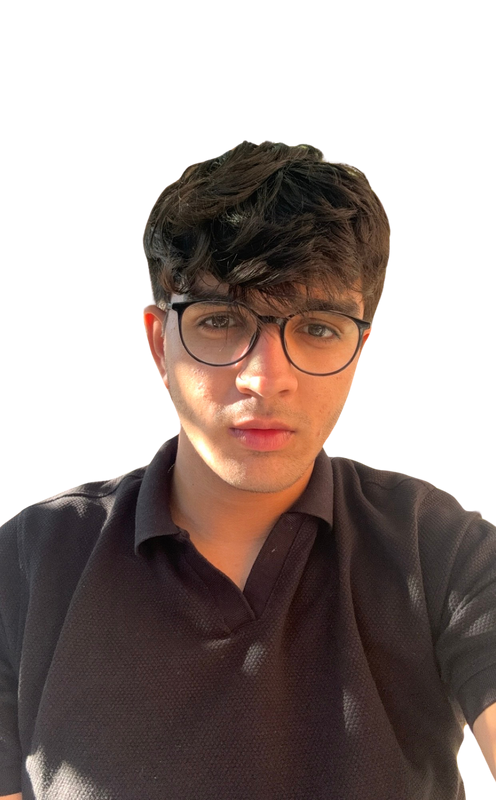
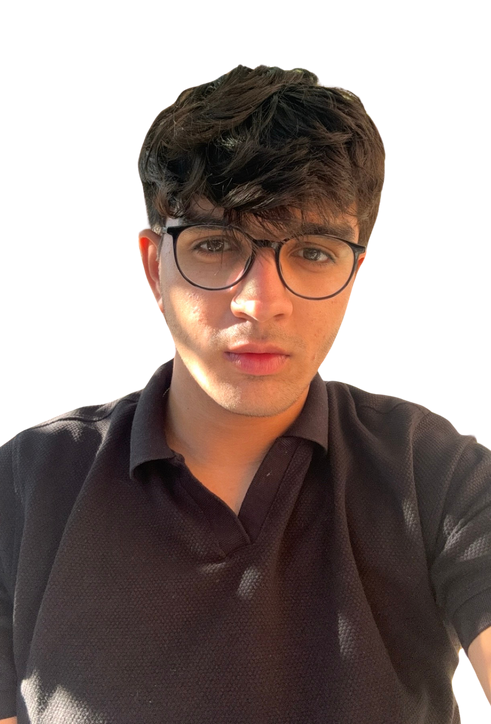
updated kshitij image and fixed sizing

diff --git a/src/app/(home)/about/page.tsx b/src/app/(home)/about/page.tsx
@@ -51,15 +51,15 @@ export default function AboutPage() {
       <Header />
       <main className="container mx-auto px-4 py-16 sm:px-6 lg:px-8">
         {/* Mission Section */}
-        <section className="mb-24">
-          <h1 className="text-4xl font-bold text-gray-900 mb-8 text-center animate-fade-in">Our Mission</h1>
-          <div className="bg-white rounded-2xl shadow-xl p-8 md:p-12 relative overflow-hidden animate-fade-in-up">
-            <div className="absolute top-0 left-0 w-full h-2 bg-blue-600"></div>
-            <h2 className="text-2xl font-semibold text-gray-900 mb-4">Post-Chemo Care, Quick and Personalized.</h2>
-            <p className="text-lg text-gray-700 mb-4">
+        <section className="mb-32">
+          <h1 className="text-5xl font-bold text-gray-900 mb-12 text-center animate-fade-in">Our Mission</h1>
+          <div className="bg-white rounded-3xl shadow-2xl p-10 md:p-16 relative overflow-hidden animate-fade-in-up">
+            <div className="absolute top-0 left-0 w-full h-2 bg-gradient-to-r from-blue-600 to-purple-600"></div>
+            <h2 className="text-3xl font-semibold text-gray-900 mb-6">Post-Chemo Care, Quick and Personalized.</h2>
+            <p className="text-xl text-gray-700 mb-6 leading-relaxed">
               Our cancer care systems demand immediate transformation, as its impact reaches far beyond a single tumor.
             </p>
-            <p className="text-lg text-gray-700">
+            <p className="text-xl text-gray-700 leading-relaxed">
               Hippocampi leads this innovation by prioritizing personalized care, pioneering the first-ever platform
               connecting cancer patients suffering cognitive and mental impairments with readily available healthcare
               providers.
@@ -69,23 +69,30 @@ export default function AboutPage() {
 
         {/* Team Section */}
         <section>
-          <h2 className="text-4xl font-bold text-gray-900 mb-12 text-center animate-fade-in">Our Team</h2>
+          <h2 className="text-5xl font-bold text-gray-900 mb-16 text-center animate-fade-in">Our Team</h2>
           <div className="grid grid-cols-1 md:grid-cols-2 lg:grid-cols-3 gap-12 animate-fade-in-stagger">
             {teamMembers.map((member, index) => (
               <div
                 key={member.name}
-                className="bg-white rounded-2xl shadow-lg overflow-hidden transform transition-all duration-300 hover:scale-105 hover:shadow-2xl"
+                className="bg-white rounded-3xl shadow-xl overflow-hidden transform transition-all duration-300 hover:scale-105 hover:shadow-2xl"
               >
-                <Link href={member.link} className="block relative h-[560px] overflow-hidden" target="_blank">
-                  <Image src={member.image || "/placeholder.svg"} alt={member.name} fill className="object-cover" />
-                  <div className="absolute inset-0 bg-gradient-to-t from-black/60 to-transparent transition-opacity duration-300 opacity-0 hover:opacity-100 flex items-end justify-center pb-4">
-                    <span className="text-white text-lg font-semibold">View Profile</span>
+                <Link href={member.link} className="block relative h-[400px] overflow-hidden" target="_blank">
+                  <Image
+                    src={member.image || "/placeholder.svg"}
+                    alt={member.name}
+                    fill
+                    className="object-cover object-top"
+                  />
+                  <div className="absolute inset-0 bg-gradient-to-t from-black/70 to-transparent transition-opacity duration-300 opacity-0 hover:opacity-100 flex items-end justify-center pb-6">
+                    <span className="text-white text-lg font-semibold bg-blue-600 px-4 py-2 rounded-full">
+                      View Profile
+                    </span>
                   </div>
                 </Link>
-                <div className="p-6">
-                  <h3 className="text-xl font-semibold text-gray-900 mb-1">{member.name}</h3>
-                  <p className="text-sm font-medium text-blue-600 mb-3">{member.role}</p>
-                  <p className="text-gray-700 text-sm line-clamp-4">{member.description}</p>
+                <div className="p-8">
+                  <h3 className="text-2xl font-semibold text-gray-900 mb-2">{member.name}</h3>
+                  <p className="text-lg font-medium text-blue-600 mb-4">{member.role}</p>
+                  <p className="text-gray-700 text-base line-clamp-4">{member.description}</p>
                 </div>
               </div>
             ))}
